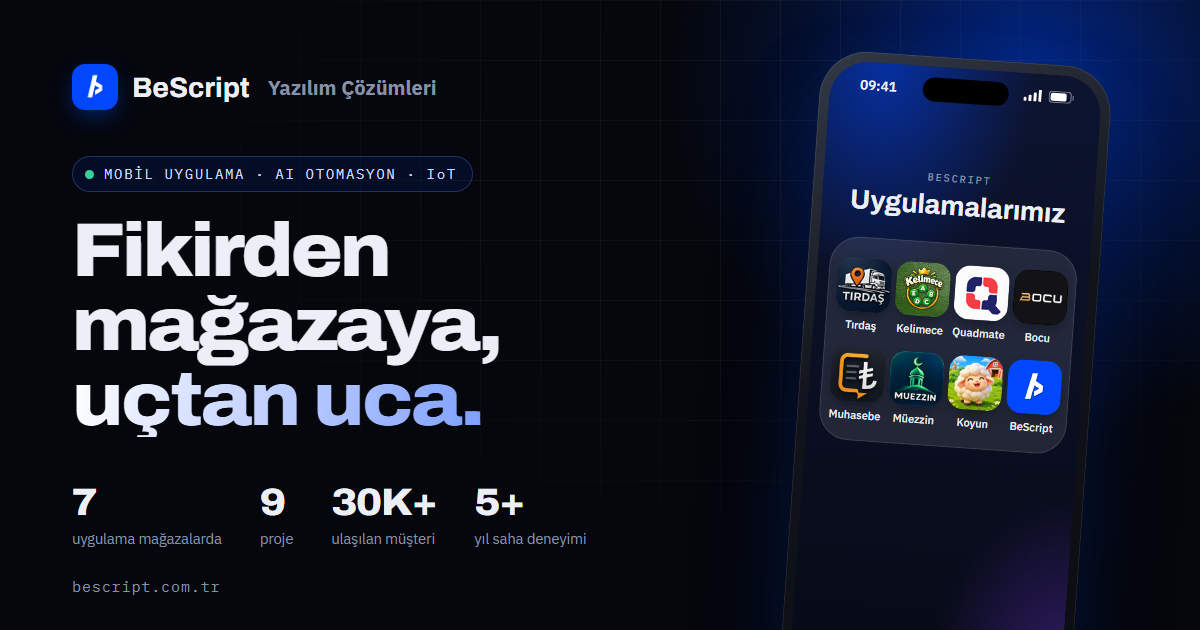
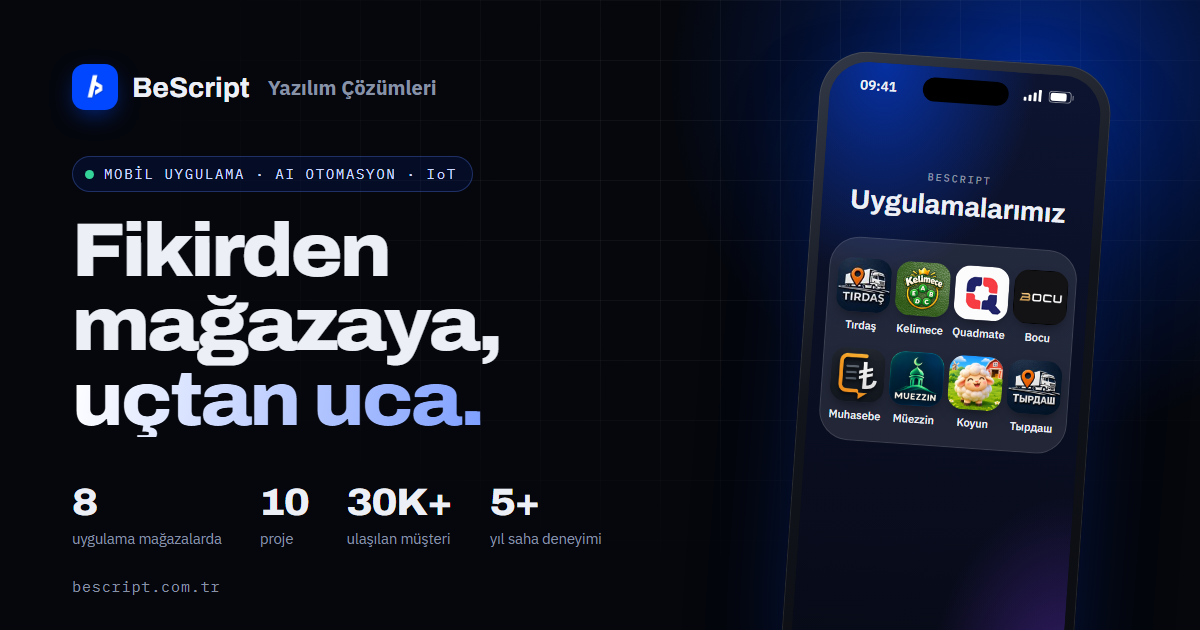
Tirdas.kz tekrar yayinda: kart, telefon, App Store ve Google Play baglantilari, sayilar

Changed region(s): [[0.2158, 0.754, 0.4933, 0.8746], [0.8325, 0.573, 0.8942, 0.6937], [0.0617, 0.7841, 0.0925, 0.8143]]

diff --git a/index.html b/index.html
@@ -18,11 +18,11 @@
 <meta property="og:url" content="https://bescript.com.tr/">
 <meta property="og:title" content="BeScript Yazılım Çözümleri — Mobil Uygulama, AI Otomasyon ve IoT">
 <meta property="og:description" content="BeScript Yazılım Çözümleri — Kartepe/Kocaeli. Mobil uygulama, AI otomasyon ve IoT sistemleri; tasarımdan mağaza yayınına uçtan uca. Canlı sistemler ve interaktif demolar.">
-<meta property="og:image" content="https://bescript.com.tr/og-image.png?v=8">
+<meta property="og:image" content="https://bescript.com.tr/og-image.png?v=9">
 <meta name="twitter:card" content="summary_large_image">
 <meta name="twitter:title" content="BeScript Yazılım Çözümleri — Mobil Uygulama, AI Otomasyon ve IoT">
 <meta name="twitter:description" content="BeScript Yazılım Çözümleri — Kartepe/Kocaeli. Mobil uygulama, AI otomasyon ve IoT sistemleri; tasarımdan mağaza yayınına uçtan uca. Canlı sistemler ve interaktif demolar.">
-<meta name="twitter:image" content="https://bescript.com.tr/og-image.png?v=8">
+<meta name="twitter:image" content="https://bescript.com.tr/og-image.png?v=9">
 <link rel="preconnect" href="https://fonts.googleapis.com">
 <link rel="preconnect" href="https://fonts.gstatic.com" crossorigin>
 <link href="https://fonts.googleapis.com/css2?family=Archivo:wdth,wght@62..125,400..900&family=IBM+Plex+Sans:wght@400;500;600&family=IBM+Plex+Mono:wght@400;500&display=swap" rel="stylesheet">
@@ -445,7 +445,7 @@ footer{border-top:1px solid var(--line);padding:56px 0 40px;margin-top:120px}
         <a class="btn btn-primary magnet" href="https://wa.me/905400010595?text=Merhaba%2C%20bir%20proje%20hakk%C4%B1nda%20konu%C5%9Fmak%20istiyorum." target="_blank" rel="noopener">Projenizi konuşalım <svg class="ok" viewBox="0 0 24 24" fill="none" stroke="currentColor" stroke-width="1.7" stroke-linecap="round" stroke-linejoin="round" aria-hidden="true"><path d="M5 12h14M13 6l6 6-6 6"/></svg></a>
         <a class="btn btn-ghost" href="#uygulamalar">Uygulamalarımızı görün</a>
       </div>
-      <div class="hero-note" data-in><span>Geliştirdiğimiz yedi uygulamanın altısı Google Play'de, altısı App Store'da yayında.</span></div>
+      <div class="hero-note" data-in><span>Geliştirdiğimiz sekiz uygulamanın yedisi Google Play'de, yedisi App Store'da yayında.</span></div>
     </div>
 
     <div class="stage" id="stage">
@@ -471,8 +471,8 @@ footer{border-top:1px solid var(--line);padding:56px 0 40px;margin-top:120px}
 <section class="trust" aria-label="Özet">
   <div class="wrap">
     <div class="stats" data-reveal>
-      <div class="stat"><b data-count="7">7</b><span>uygulama mağazalarda</span></div>
-      <div class="stat"><b data-count="9">9</b><span>proje · canlı, test, yakında</span></div>
+      <div class="stat"><b data-count="8">8</b><span>uygulama mağazalarda</span></div>
+      <div class="stat"><b data-count="10">10</b><span>proje · canlı, test, yakında</span></div>
       <div class="stat"><b data-count="30" data-suffix="K+">30K+</b><span>tek sistemle ulaşılan müşteri</span></div>
       <div class="stat"><b data-count="5" data-suffix="+">5+</b><span>yıl saha deneyimi</span></div>
     </div>
@@ -580,6 +580,15 @@ footer{border-top:1px solid var(--line);padding:56px 0 40px;margin-top:120px}
         <div class="badges"><a class="badge" href="https://apps.apple.com/tr/app/sheep-station/id6835718588" target="_blank" rel="noopener"><img class="b-apple" src="/assets/badge/app-store-tr.svg" alt="App Store'dan İndirin" width="151" height="40"></a><span class="badge badge-off"><img class="b-google" src="/assets/badge/google-play-kapali-test-tr.png" alt="Google Play'de kapalı testte" width="646" height="250"></span></div>
       </div>
       <div class="app-stage"><div class="phone sm"><div class="scr"><img src="/telefon/koyun/1.webp" alt="Koyun İstasyonu oyun ekranı" loading="lazy"></div></div></div>
+    </article><article class="app spot" style="--ac:0,175,202" data-reveal>
+      <div class="app-text">
+        <div class="app-id"><img class="app-logo" src="/assets/logo/tirdaskz.jpg" alt="" width="52" height="52" loading="lazy">
+          <div><h3>Тырдаш</h3><span>Tirdas.kz · Kazakistan sürümü</span></div></div>
+        <p>Tırdaş'ın Kazakistan pazarına uyarlanan sürümü. Yük ve araç sahiplerini aynı havuzda buluşturur; ilanlar ve gelir-gider takibi tenge (₸) ile.</p>
+        <div class="chips"><span>react native</span><span>openai</span><span>postgresql</span><span>çok dilli</span></div>
+        <div class="badges"><a class="badge" href="https://apps.apple.com/tr/app/%D1%82%D1%8B%D1%80%D0%B4%D0%B0%D1%88-tirdas-kz/id6824191994" target="_blank" rel="noopener"><img class="b-apple" src="/assets/badge/app-store-tr.svg" alt="App Store'dan İndirin" width="151" height="40"></a><a class="badge" href="https://play.google.com/store/apps/details?id=com.tirdas.kz" target="_blank" rel="noopener"><img class="b-google" src="/assets/badge/google-play-tr.png" alt="Google Play'den alın" width="646" height="250"></a></div>
+      </div>
+      <div class="app-stage"><div class="phone sm"><div class="scr"><img src="/telefon/tirdaskz/1.webp" alt="Тырдаш uygulama ekranı" loading="lazy"></div></div></div>
     </article></div>
     <div class="others-title" data-reveal><h3>Diğer projeler</h3><span>yolda olan uygulamalar ve demolar</span></div>
     <div class="others"><article class="mini spot" data-reveal>
@@ -1061,7 +1070,7 @@ setTimeout(function(){ if (!window.gsap) document.documentElement.classList.remo
   "description": "Mobil uygulama, AI otomasyon ve IoT sistemleri; tasarımdan mağaza yayınına uçtan uca yazılım geliştirme.",
   "url": "https://bescript.com.tr/",
   "logo": "https://bescript.com.tr/assets/logo/brand-512.png",
-  "image": "https://bescript.com.tr/og-image.png?v=8",
+  "image": "https://bescript.com.tr/og-image.png?v=9",
   "email": "mailto:bescript.yazilim@gmail.com",
   "telephone": "+90-540-001-05-95",
   "priceRange": "$$",

diff --git a/hakkimizda/index.html b/hakkimizda/index.html
@@ -17,11 +17,11 @@
 <meta property="og:url" content="https://bescript.com.tr/hakkimizda/">
 <meta property="og:title" content="Hakkımızda — BeScript Yazılım Çözümleri">
 <meta property="og:description" content="Mobil uygulama, AI otomasyon ve IoT sistemleri; tasarımdan mağaza yayınına uçtan uca.">
-<meta property="og:image" content="https://bescript.com.tr/og-image.png?v=8">
+<meta property="og:image" content="https://bescript.com.tr/og-image.png?v=9">
 <meta name="twitter:card" content="summary_large_image">
 <meta name="twitter:title" content="Hakkımızda — BeScript Yazılım Çözümleri">
 <meta name="twitter:description" content="Mobil uygulama, AI otomasyon ve IoT sistemleri; tasarımdan mağaza yayınına uçtan uca.">
-<meta name="twitter:image" content="https://bescript.com.tr/og-image.png?v=8">
+<meta name="twitter:image" content="https://bescript.com.tr/og-image.png?v=9">
 <link rel="preconnect" href="https://fonts.googleapis.com">
 <link rel="preconnect" href="https://fonts.gstatic.com" crossorigin>
 <link href="https://fonts.googleapis.com/css2?family=Archivo:wdth,wght@62..125,400..900&family=IBM+Plex+Sans:wght@400;500;600&family=IBM+Plex+Mono:wght@400;500&display=swap" rel="stylesheet">
@@ -491,7 +491,7 @@ footer{border-top:1px solid var(--line);padding:56px 0 40px;margin-top:120px}
     </div>
     <div data-in>
       <div class="orbit" aria-label="Geliştirdiğimiz uygulamalar">
-        <div class="ring r2"><span class="orb-i" style="--a:20deg" title="Bocu Remote"><img src="/telefon/bocu/ikon.jpg" alt="Bocu Remote" width="58" height="58" loading="lazy"></span><span class="orb-i" style="--a:140deg" title="Muhasebe Defterim"><img src="/telefon/muhasebe/ikon.png" alt="Muhasebe Defterim" width="58" height="58" loading="lazy"></span><span class="orb-i" style="--a:260deg" title="Müezzin"><img src="/telefon/muezzin/ikon.png" alt="Müezzin" width="58" height="58" loading="lazy"></span></div>
+        <div class="ring r2"><span class="orb-i" style="--a:20deg" title="Bocu Remote"><img src="/telefon/bocu/ikon.jpg" alt="Bocu Remote" width="58" height="58" loading="lazy"></span><span class="orb-i" style="--a:110deg" title="Muhasebe Defterim"><img src="/telefon/muhasebe/ikon.png" alt="Muhasebe Defterim" width="58" height="58" loading="lazy"></span><span class="orb-i" style="--a:200deg" title="Müezzin"><img src="/telefon/muezzin/ikon.png" alt="Müezzin" width="58" height="58" loading="lazy"></span><span class="orb-i" style="--a:290deg" title="Тырдаш"><img src="/telefon/tirdaskz/ikon.jpg" alt="Тырдаш" width="58" height="58" loading="lazy"></span></div>
         <div class="ring r1"><span class="orb-i" style="--a:-90deg" title="Tırdaş"><img src="/telefon/tirdas/ikon.jpg" alt="Tırdaş" width="58" height="58" loading="lazy"></span><span class="orb-i" style="--a:30deg" title="Kelimece"><img src="/telefon/kelimece/ikon.png" alt="Kelimece" width="58" height="58" loading="lazy"></span><span class="orb-i" style="--a:150deg" title="Quadmate"><img src="/telefon/quadmate/ikon.png" alt="Quadmate" width="58" height="58" loading="lazy"></span></div>
         <div class="core"><img src="/assets/logo/brand-512.png" alt="BeScript" width="112" height="112"></div>
       </div>
@@ -503,8 +503,8 @@ footer{border-top:1px solid var(--line);padding:56px 0 40px;margin-top:120px}
 <section class="trust" aria-label="Özet">
   <div class="wrap">
     <div class="stats" data-reveal>
-      <div class="stat"><b data-count="7">7</b><span>uygulama mağazalarda</span></div>
-      <div class="stat"><b data-count="9">9</b><span>proje · canlı, test, yakında</span></div>
+      <div class="stat"><b data-count="8">8</b><span>uygulama mağazalarda</span></div>
+      <div class="stat"><b data-count="10">10</b><span>proje · canlı, test, yakında</span></div>
       <div class="stat"><b data-count="30" data-suffix="K+">30K+</b><span>tek sistemle ulaşılan müşteri</span></div>
       <div class="stat"><b data-count="5" data-suffix="+">5+</b><span>yıl saha deneyimi</span></div>
     </div>
